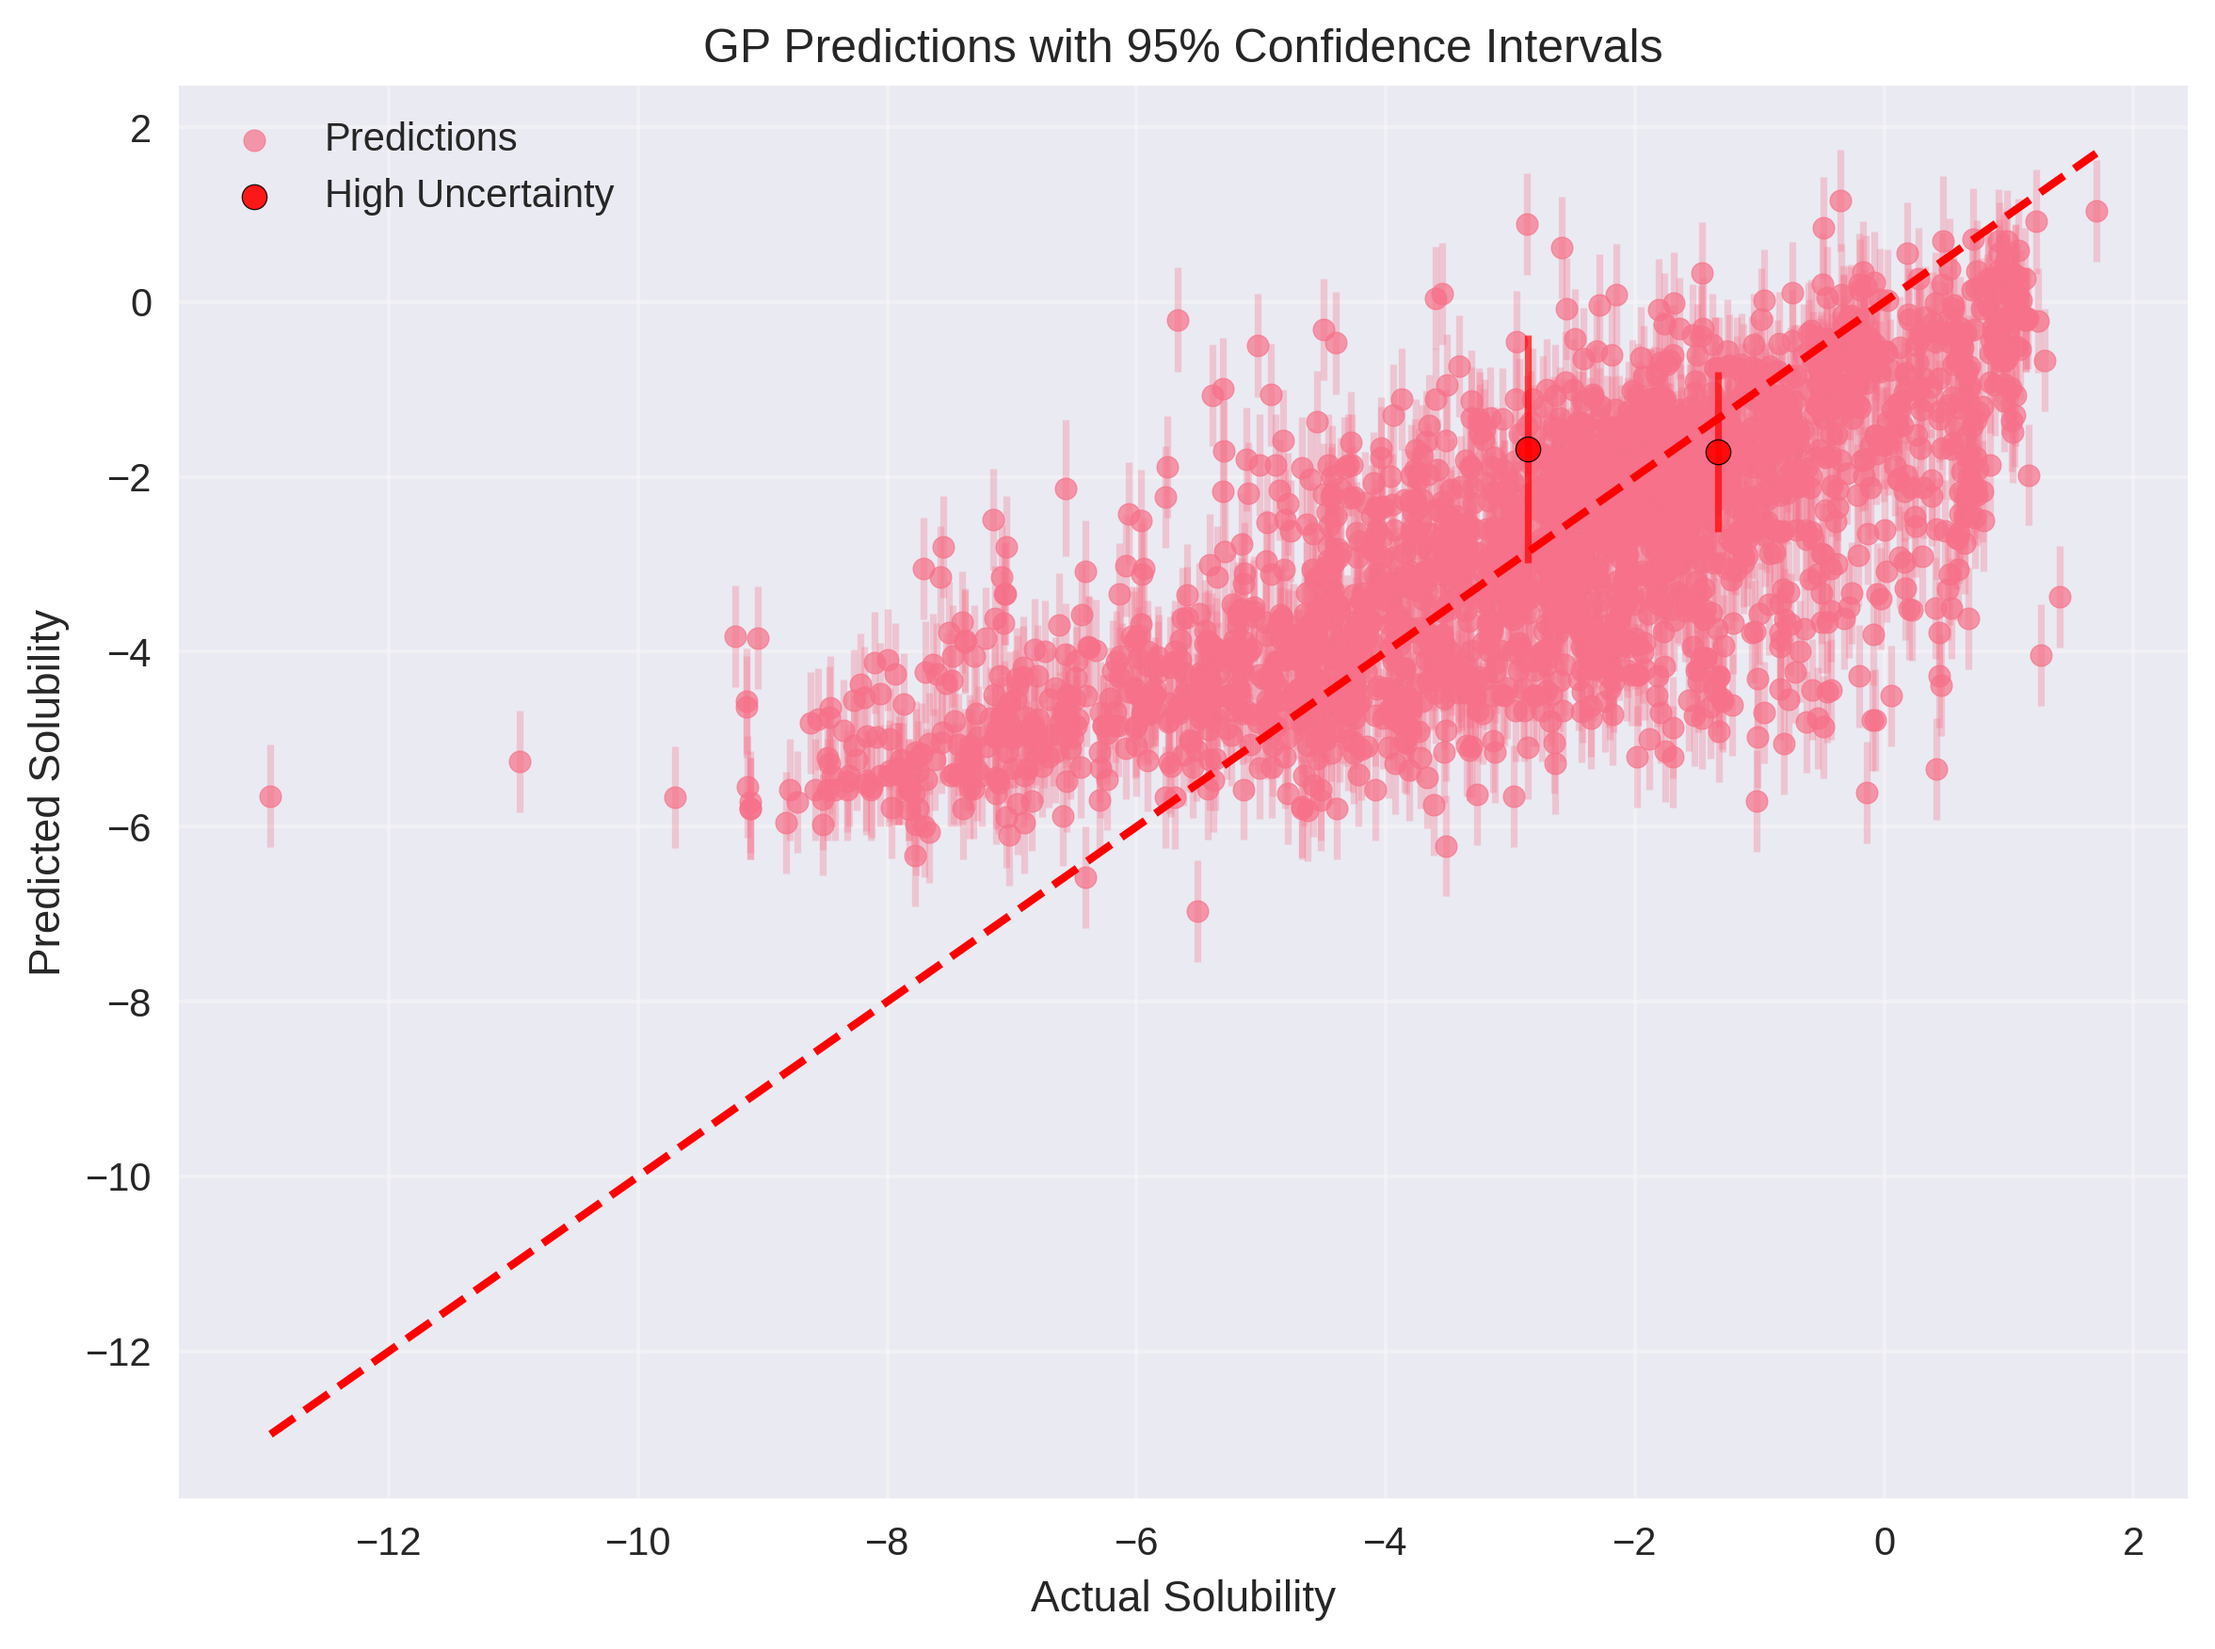
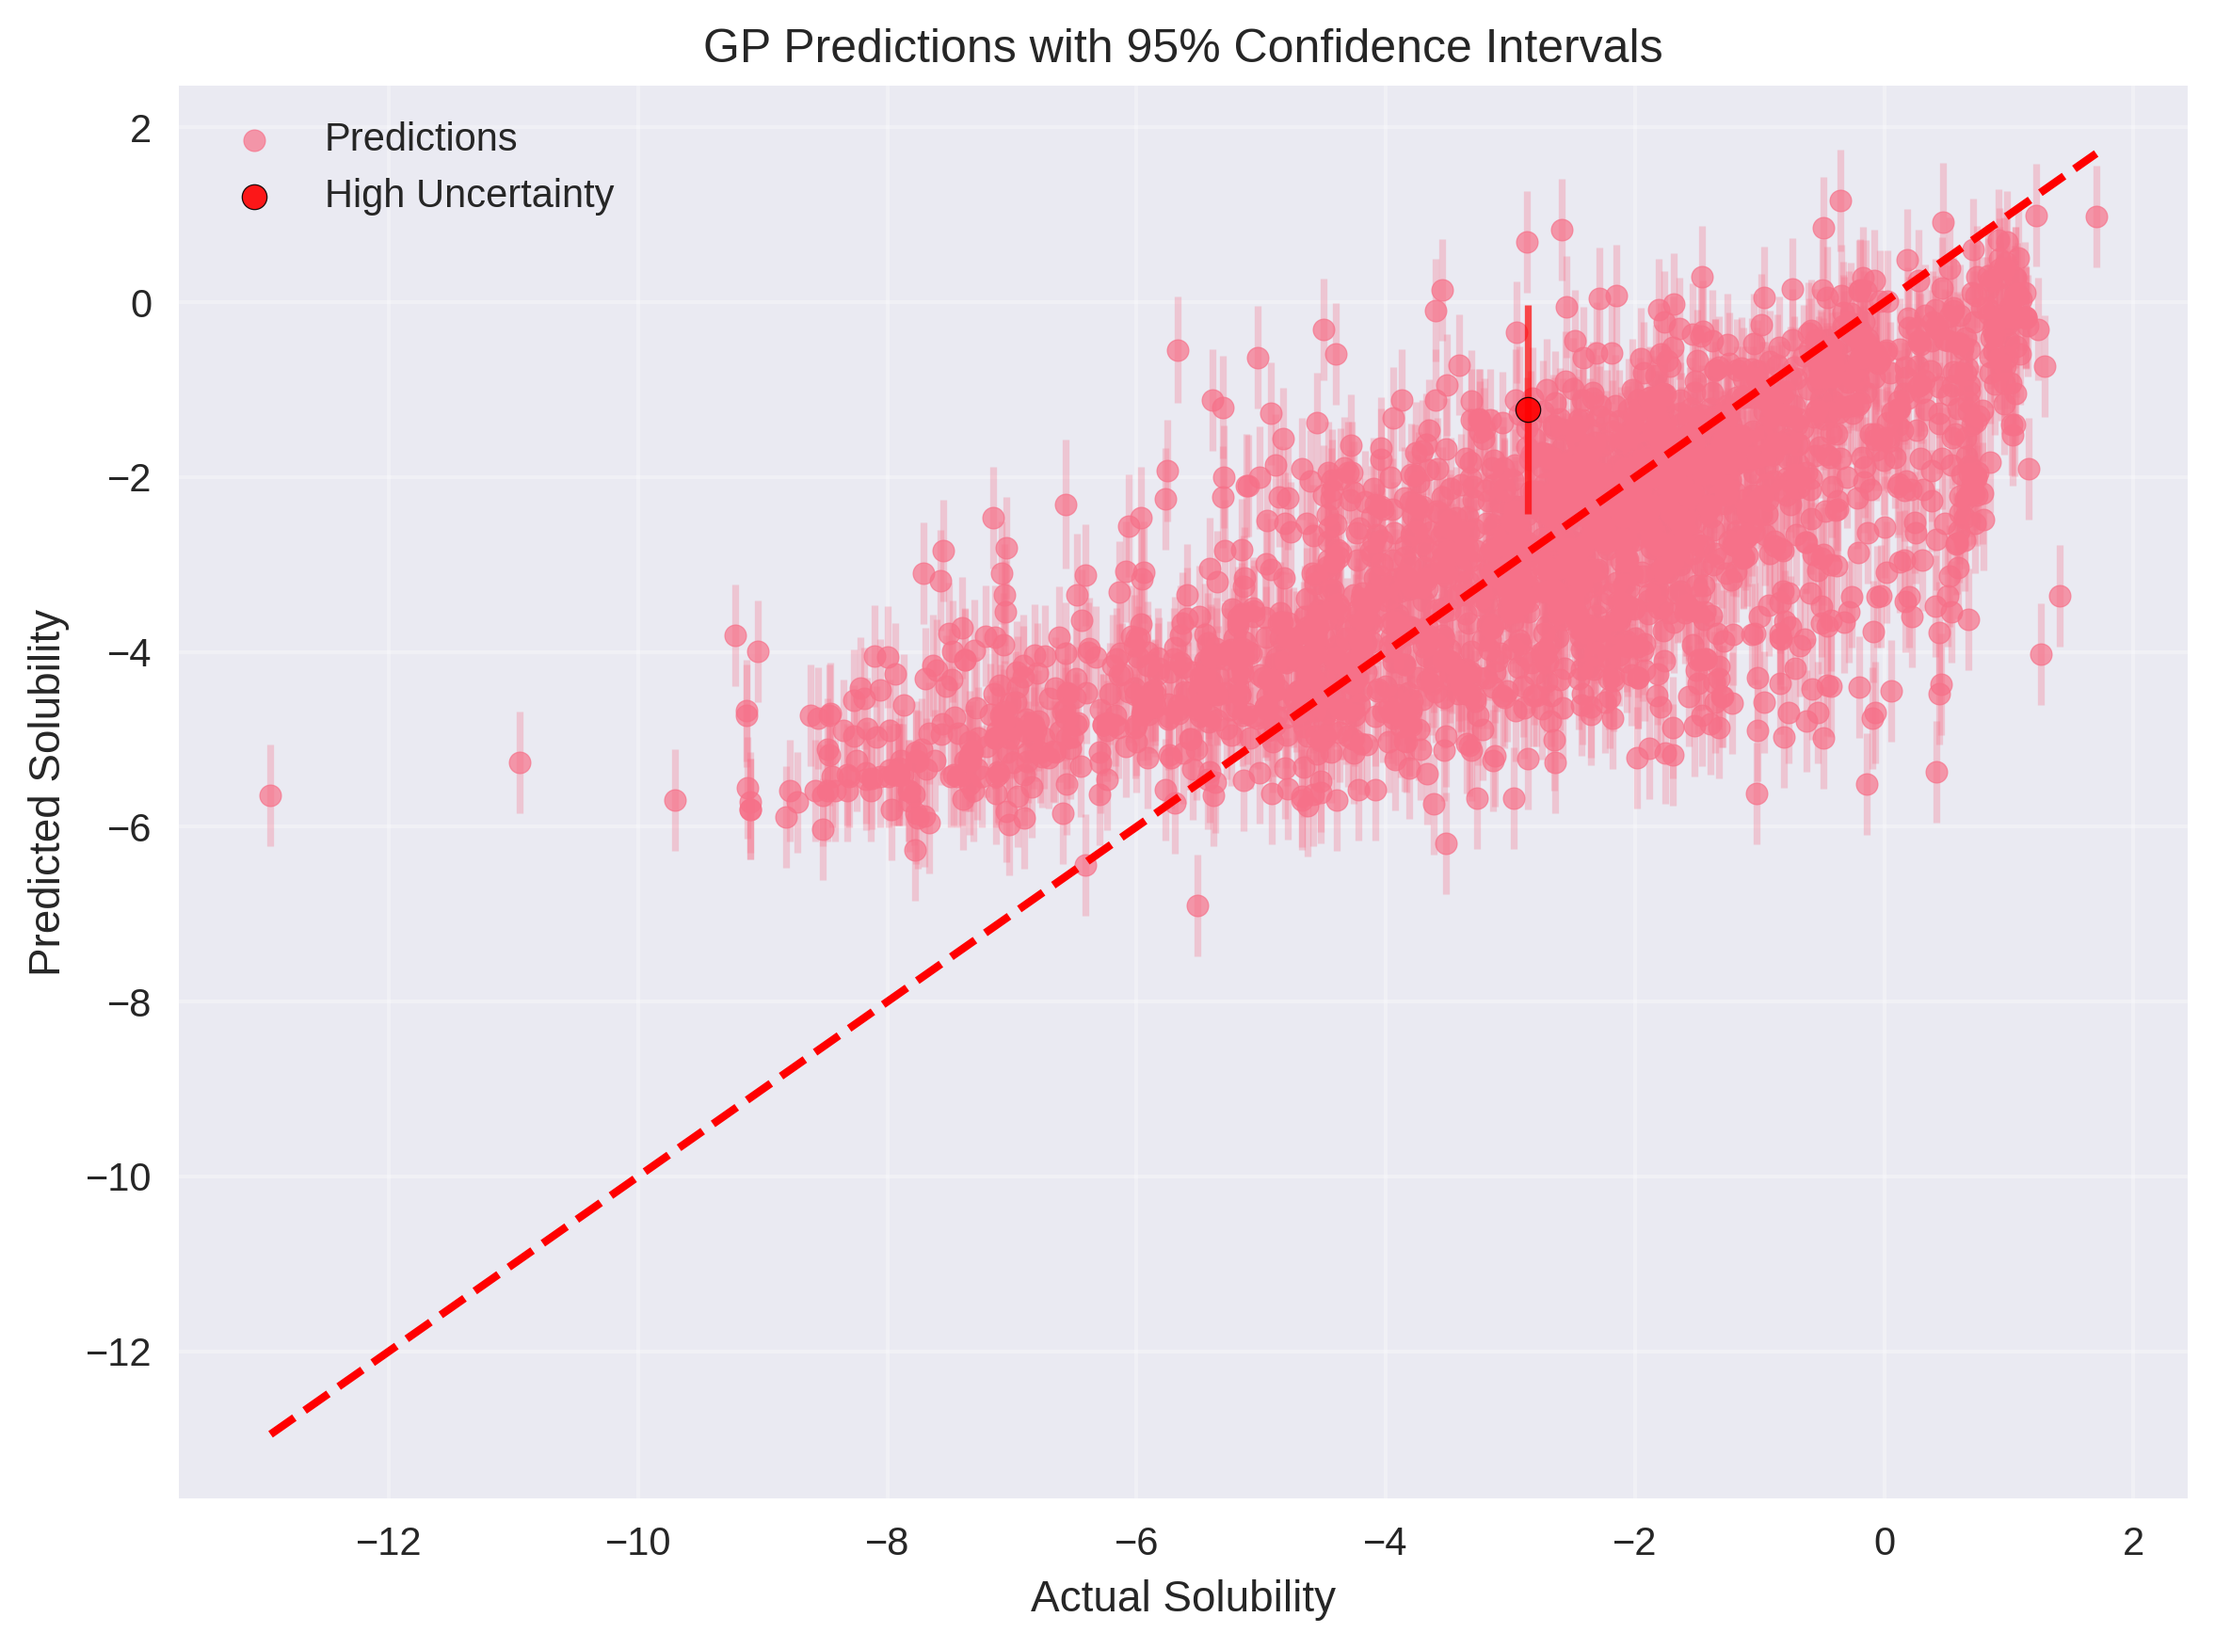
bottom two is nicer

diff --git a/main.py b/main.py
@@ -48,15 +48,18 @@ def uncertainty_plot(gp, X_train, X_test, y_test):
 
     ax.scatter(y_test[low_uncertainty], y_pred[low_uncertainty], alpha=0.7, s=30, label='Predictions', color='C0')
     ax.errorbar(y_test[low_uncertainty], y_pred[low_uncertainty], yerr=2*y_std[low_uncertainty], fmt='none', alpha=0.3, capsize=2, color='C0')
+    
     if np.any(high_uncertainty):
         ax.scatter(y_test[high_uncertainty], y_pred[high_uncertainty], alpha=0.9, s=40, label='High Uncertainty', color='red', edgecolor='black', zorder=5)
         ax.errorbar(y_test[high_uncertainty], y_pred[high_uncertainty], yerr=2*y_std[high_uncertainty], fmt='none', alpha=0.7, capsize=2, color='red')
+    
     ax.plot([y_test.min(), y_test.max()], [y_test.min(), y_test.max()], 'r--', lw=2)
     ax.set_xlabel('Actual Solubility')
     ax.set_ylabel('Predicted Solubility')
     ax.set_title('GP Predictions with 95% Confidence Intervals')
     ax.legend()
     ax.grid(True, alpha=0.3)
+    
     plt.tight_layout()
     os.makedirs(FIGURE_DIR, exist_ok=True)
     plt.savefig(f'{FIGURE_DIR}/solubility_uncertainty.png', dpi=300, bbox_inches='tight')
@@ -65,16 +68,20 @@ def uncertainty_plot(gp, X_train, X_test, y_test):
 def plot_length_scales(length_scales, feature_names, sorted_indices, save_path):
     sorted_features = [feature_names[i] for i in sorted_indices]
     sorted_length_scales = length_scales[sorted_indices]
+    
     fig, ax = plt.subplots(figsize=(10, 8))
+    
     bars = ax.barh(range(len(sorted_features)), sorted_length_scales)
     ax.set_yticks(range(len(sorted_features)))
     ax.set_yticklabels(sorted_features)
     ax.set_xlabel('Length Scale (Feature Importance)')
     ax.set_title('Kernel Length Scales - Feature Importance')
     ax.grid(True, alpha=0.3)
+    
     colors = plt.cm.viridis(np.linspace(0, 1, len(bars)))
     for bar, color in zip(bars, colors):
         bar.set_color(color)
+    
     plt.tight_layout()
     plt.savefig(save_path, dpi=300, bbox_inches='tight')
     plt.close()
@@ -82,13 +89,16 @@ def plot_length_scales(length_scales, feature_names, sorted_indices, save_path):
 def plot_sigmas(length_scales, feature_names, sorted_indices, save_path):
     sorted_features = [feature_names[i] for i in sorted_indices]
     sorted_length_scales = length_scales[sorted_indices]
+    
     fig, ax = plt.subplots(figsize=(10, 8))
+    
     ax.barh(range(len(sorted_features)), 1/sorted_length_scales, color='lightcoral')
     ax.set_yticks(range(len(sorted_features)))
     ax.set_yticklabels(sorted_features)
     ax.set_xlabel('Sigma (Length Scale)')
     ax.set_title('Kernel Sigma Values')
     ax.grid(True, alpha=0.3)
+    
     plt.tight_layout()
     plt.savefig(save_path, dpi=300, bbox_inches='tight')
     plt.close()
@@ -96,13 +106,16 @@ def plot_sigmas(length_scales, feature_names, sorted_indices, save_path):
 def plot_relative_importance(length_scales, feature_names, sorted_indices, save_path):
     sorted_features = [feature_names[i] for i in sorted_indices]
     importance_ratio = length_scales / np.max(length_scales)
+    
     fig, ax = plt.subplots(figsize=(10, 8))
+    
     ax.barh(range(len(sorted_features)), importance_ratio[sorted_indices], color='lightcoral')
     ax.set_yticks(range(len(sorted_features)))
     ax.set_yticklabels(sorted_features)
     ax.set_xlabel('Relative Importance')
     ax.set_title('Relative Feature Importance')
     ax.grid(True, alpha=0.3)
+    
     plt.tight_layout()
     plt.savefig(save_path, dpi=300, bbox_inches='tight')
     plt.close()
@@ -110,19 +123,20 @@ def plot_relative_importance(length_scales, feature_names, sorted_indices, save_
 def plot_uncertainty_heatmap(gp, X, y, feature_names, sigmas, X_train, save_path):
     length_scales = 1.0 / sigmas
     sorted_indices = np.argsort(length_scales)[::-1]
-    top2_idx = sorted_indices[:2]
+    bottom2_idx = sorted_indices[-2:]
     
-    x1_name, x2_name = feature_names[top2_idx[0]], feature_names[top2_idx[1]]
-    x1 = np.linspace(np.percentile(X[:, top2_idx[0]], 1), np.percentile(X[:, top2_idx[0]], 99), 60)
-    x2 = np.linspace(np.percentile(X[:, top2_idx[1]], 1), np.percentile(X[:, top2_idx[1]], 99), 60)
+    x1_name, x2_name = feature_names[bottom2_idx[0]], feature_names[bottom2_idx[1]]
+    x1 = np.linspace(np.percentile(X[:, bottom2_idx[0]], 1), np.percentile(X[:, bottom2_idx[0]], 99), 60)
+    x2 = np.linspace(np.percentile(X[:, bottom2_idx[1]], 1), np.percentile(X[:, bottom2_idx[1]], 99), 60)
     X1g, X2g = np.meshgrid(x1, x2)
     X_grid = np.zeros((X1g.size, X.shape[1]))
-    X_grid[:, top2_idx[0]] = X1g.ravel()
-    X_grid[:, top2_idx[1]] = X2g.ravel()
+    X_grid[:, bottom2_idx[0]] = X1g.ravel()
+    X_grid[:, bottom2_idx[1]] = X2g.ravel()
     
     for i in range(X.shape[1]):
-        if i not in top2_idx:
+        if i not in bottom2_idx:
             X_grid[:, i] = np.mean(X[:, i])
+    
     _, y_std_grid = gp.predict(X_grid, return_std=True)
     y_std_grid = y_std_grid.reshape(X1g.shape)
     
@@ -132,12 +146,12 @@ def plot_uncertainty_heatmap(gp, X, y, feature_names, sigmas, X_train, save_path
     
     ax_heat.set_xlabel(x1_name)
     ax_heat.set_ylabel(x2_name)
-    ax_heat.set_title('2D Uncertainty Heatmap (Top 2 Features)')
+    ax_heat.set_title('2D Uncertainty Heatmap (Bottom 2 Features)')
     ax_heat.set_xlim(x1.min(), x1.max())
     ax_heat.set_ylim(x2.min(), x2.max())
     
     if X_train is not None:
-        ax_heat.scatter(X_train[:, top2_idx[0]], X_train[:, top2_idx[1]], 
+        ax_heat.scatter(X_train[:, bottom2_idx[0]], X_train[:, bottom2_idx[1]], 
                        c='lime', marker='x', s=18, alpha=0.7, 
                        label='Training Data', zorder=5, linewidth=1.2)
         ax_heat.legend()
